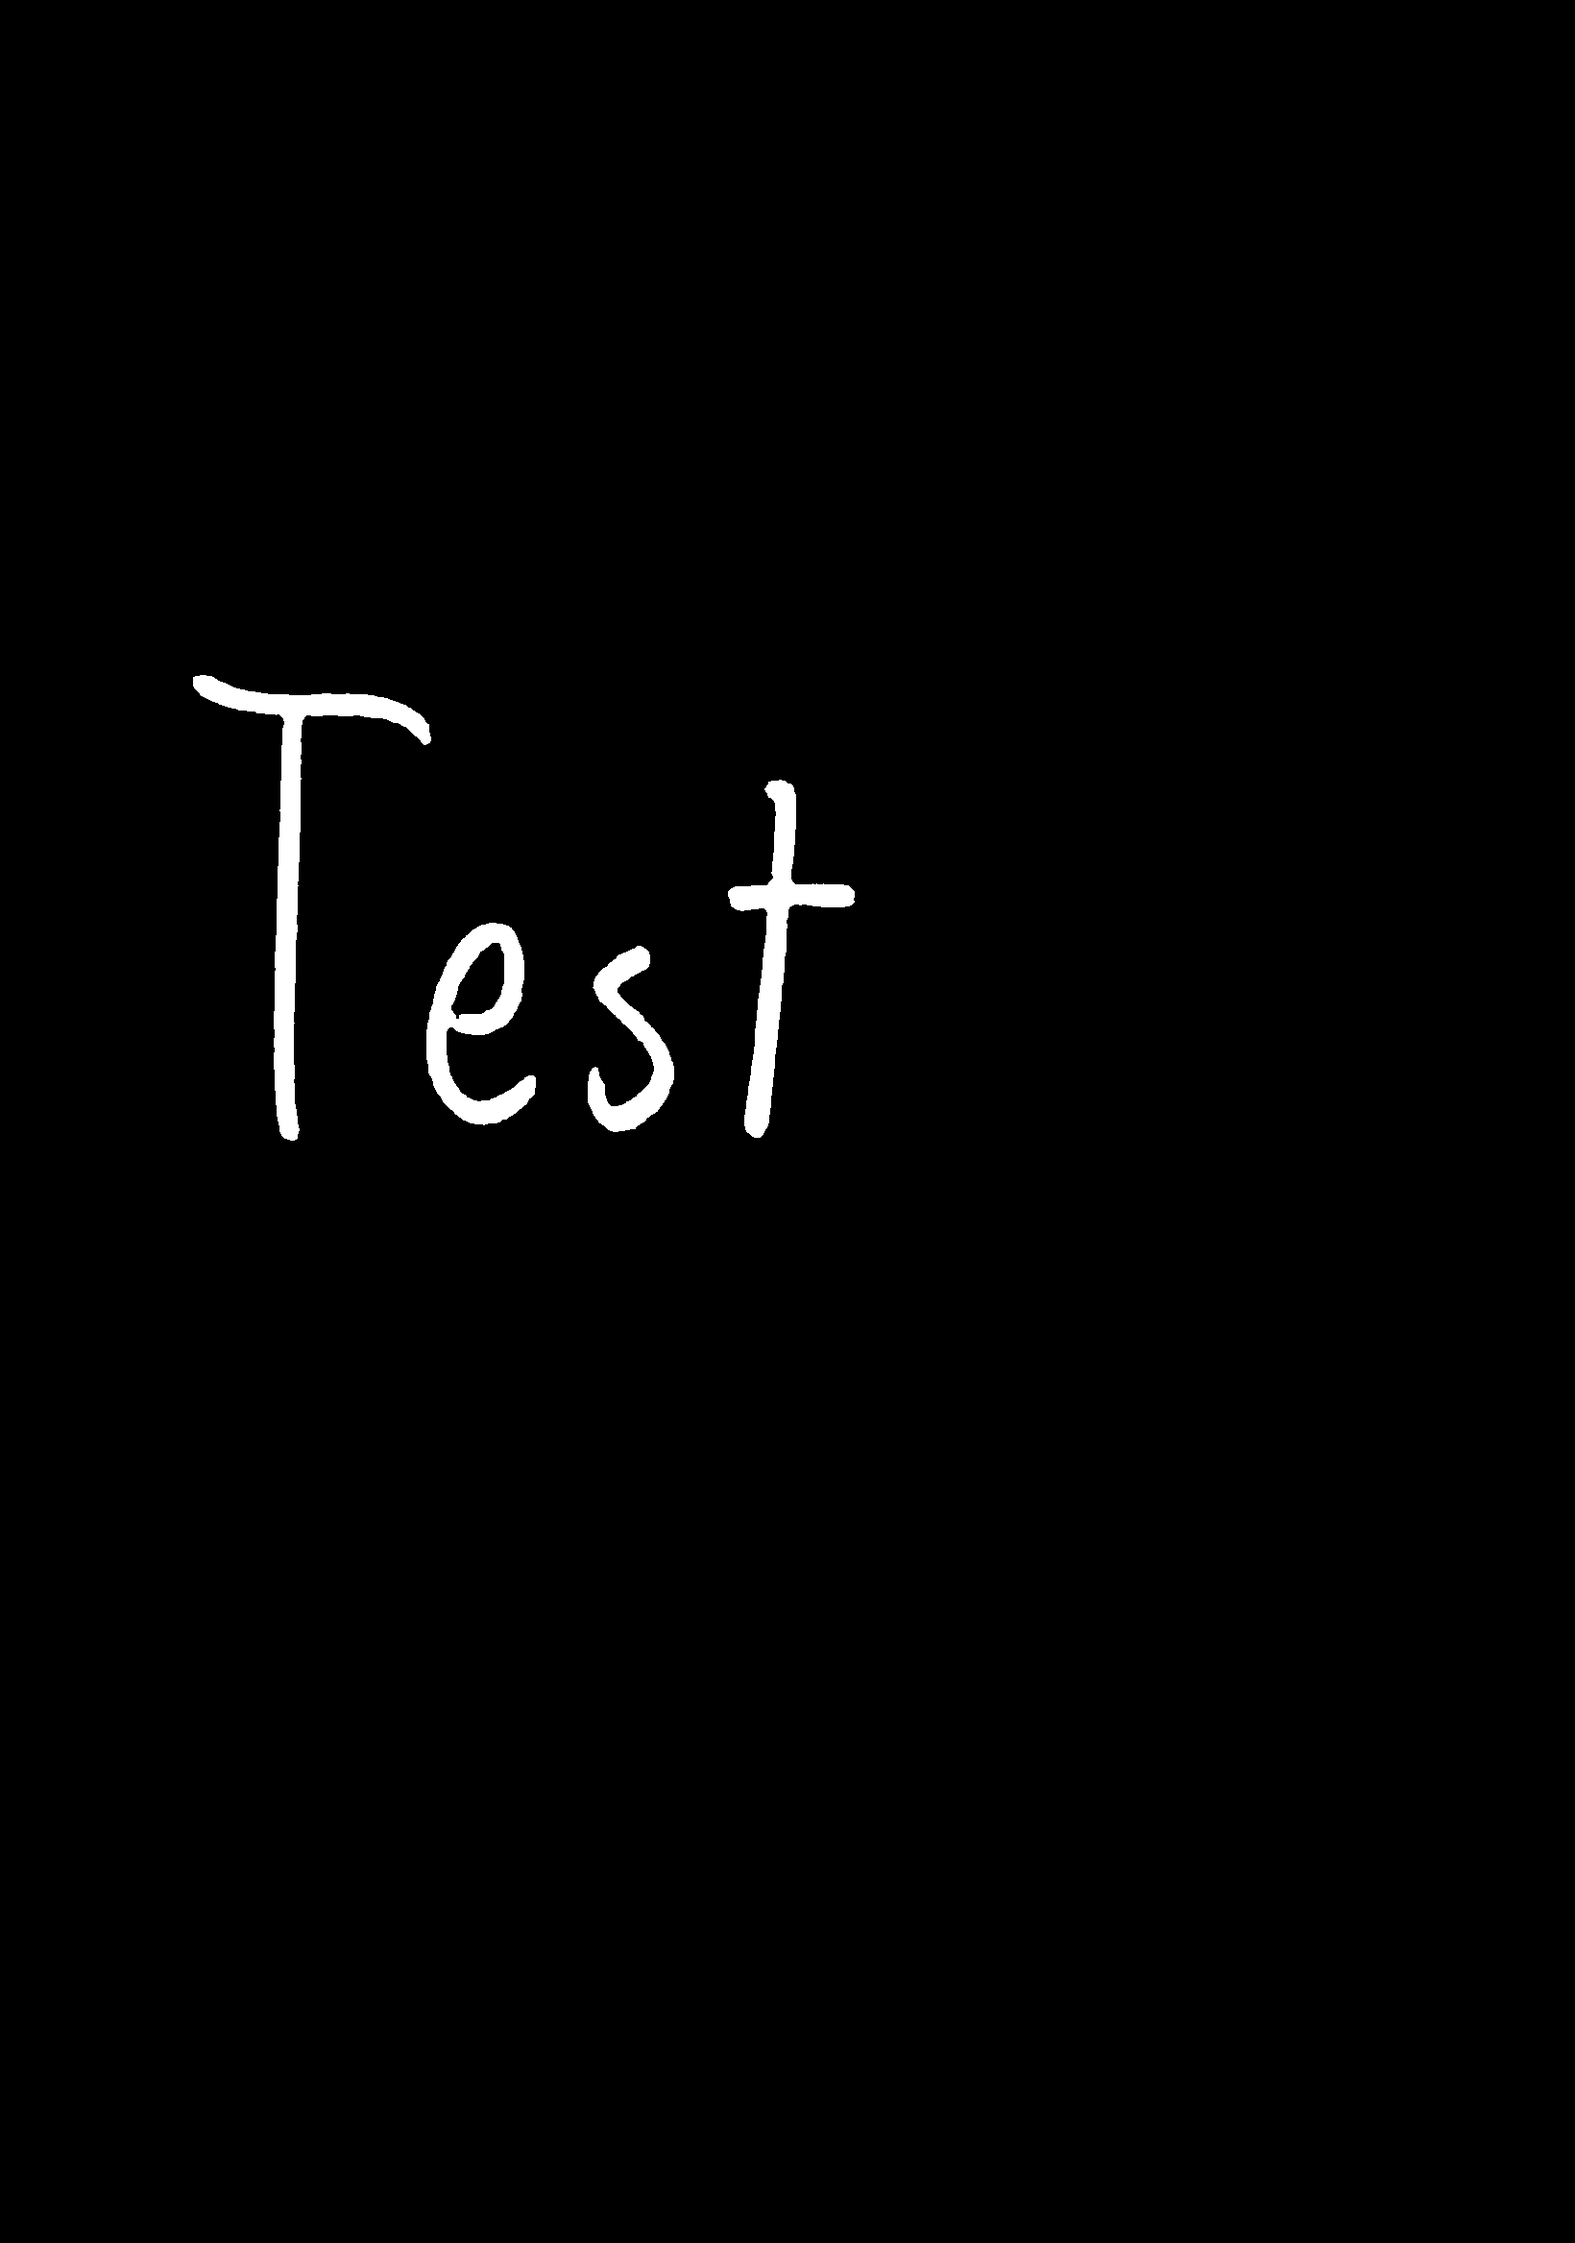
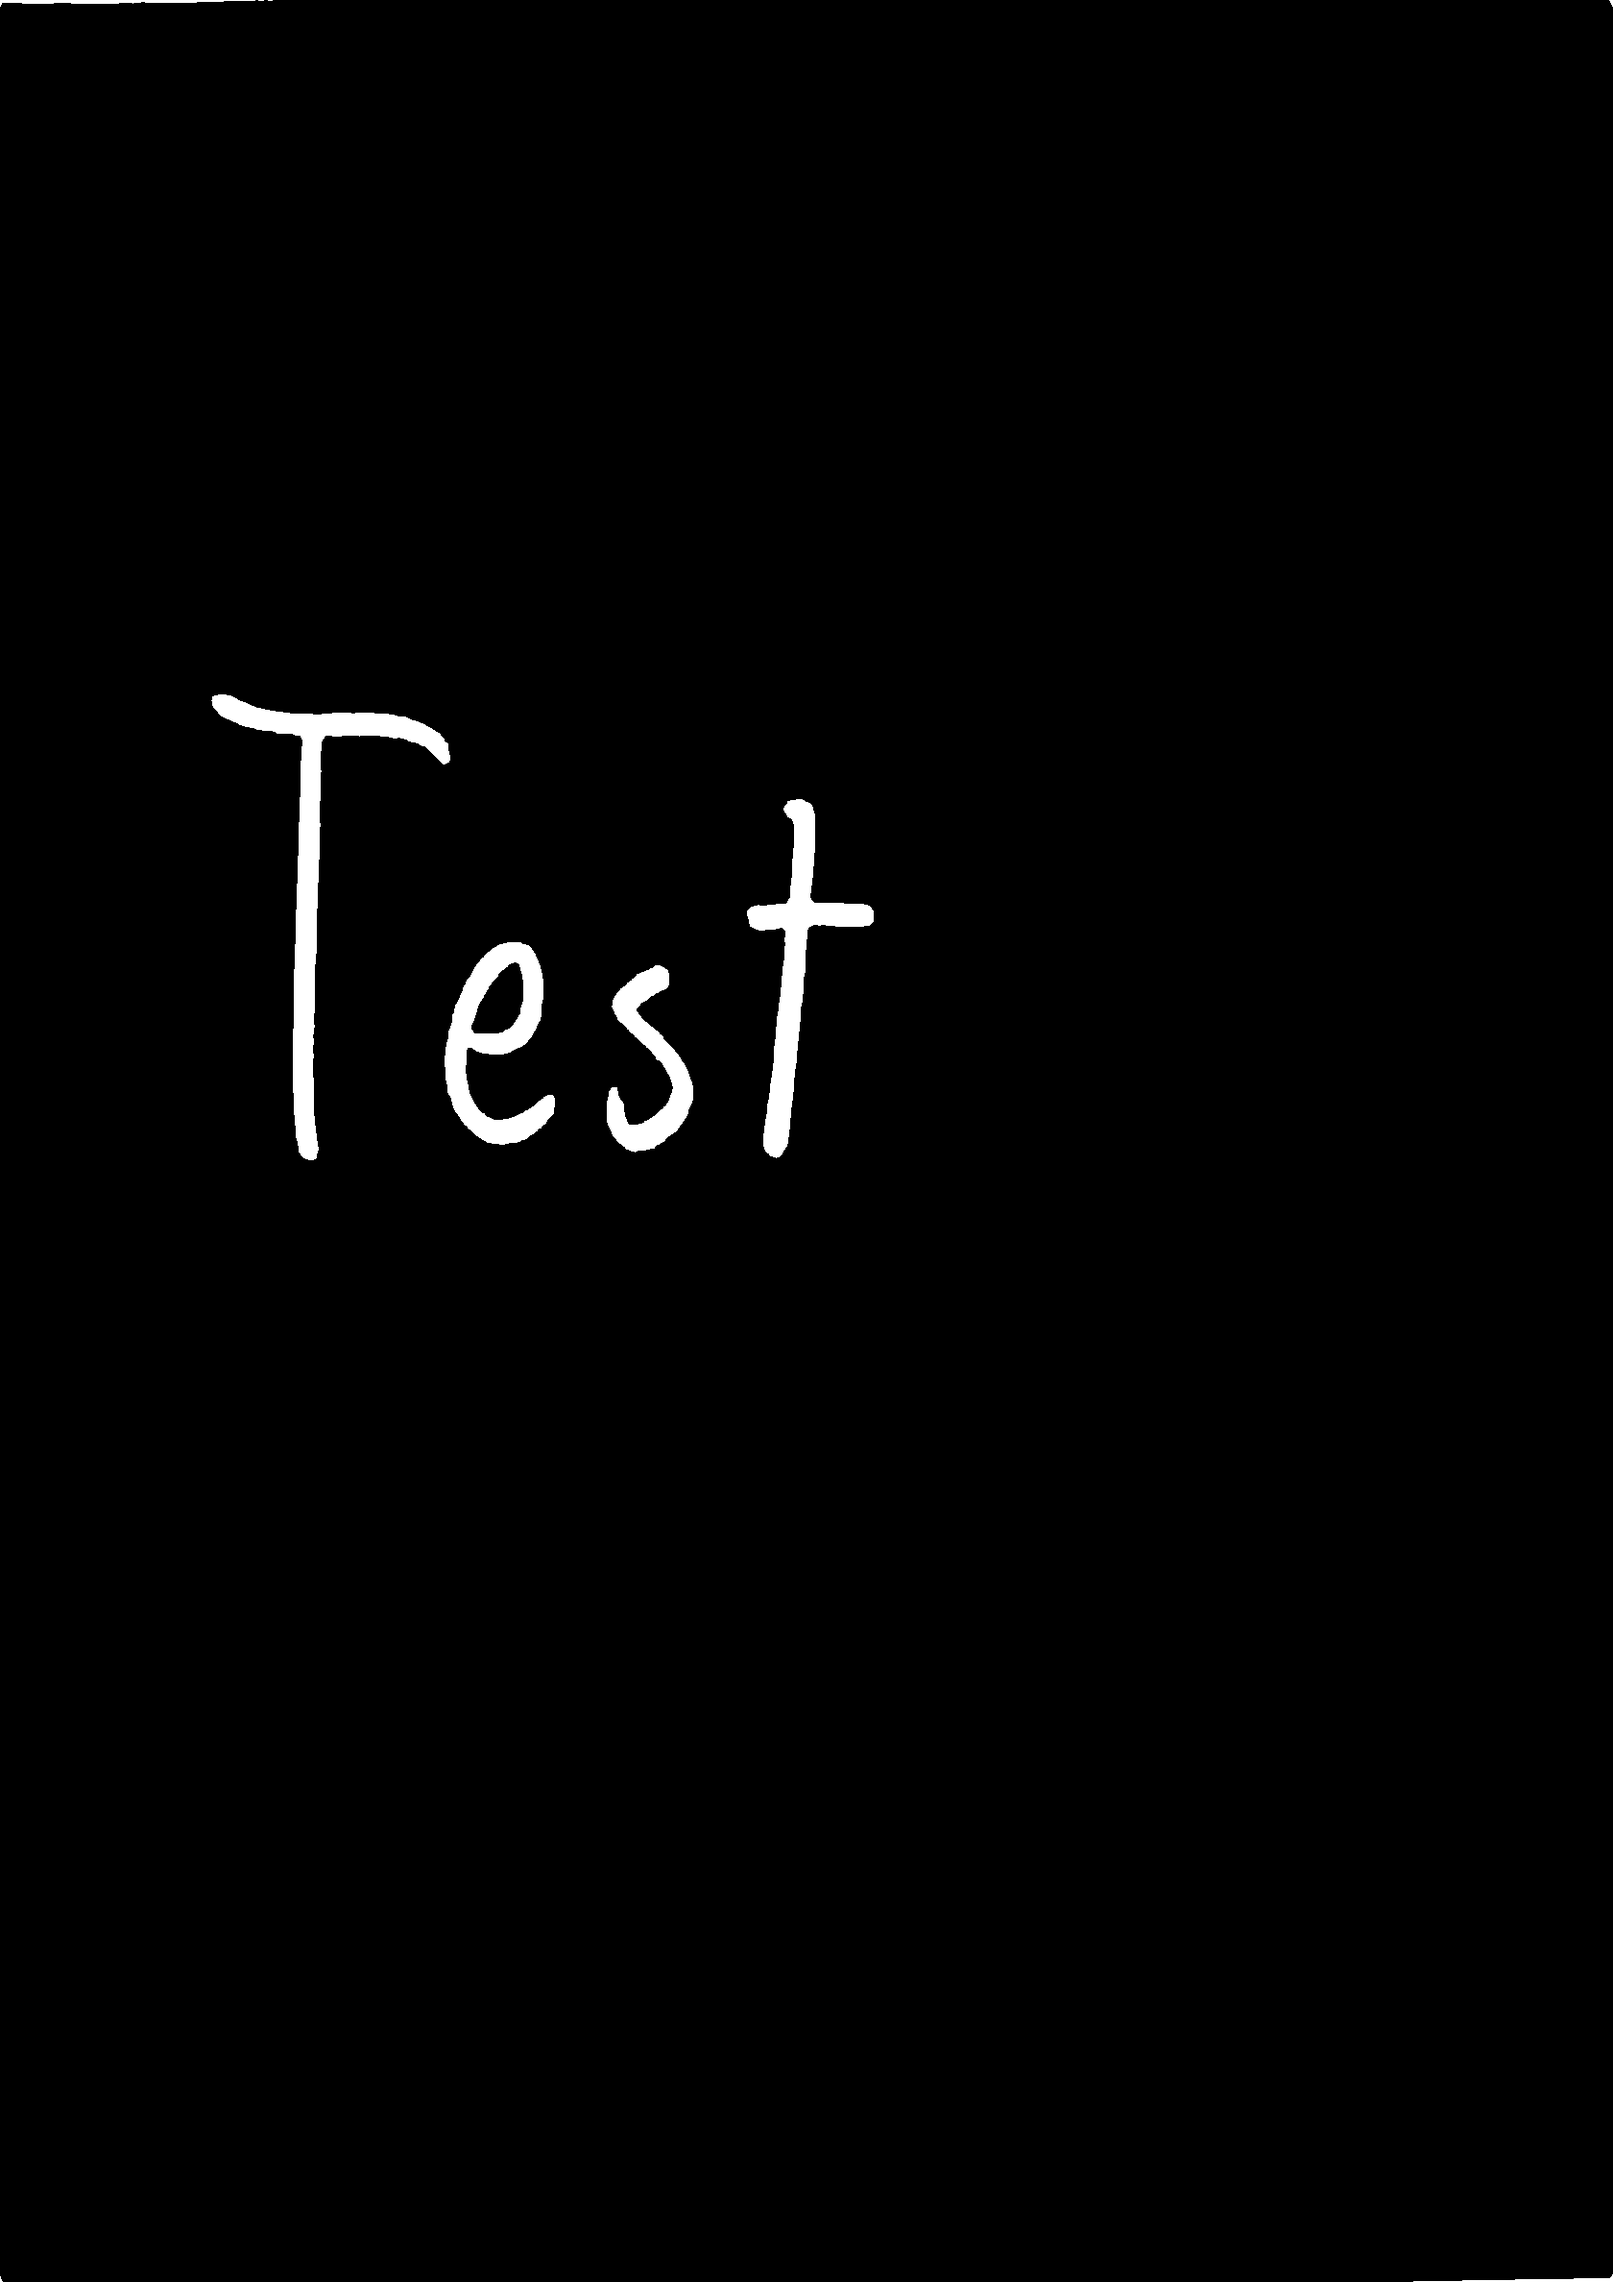
started on template recognition

diff --git a/make_template.py b/make_template.py
@@ -3,36 +3,30 @@ matplotlib.use("Agg")
 import matplotlib.pyplot as plt
 from matplotlib.patches import Rectangle
 
-PAGE_W, PAGE_H = 210, 297
-MARGIN = 15
-LABEL_W = 15
-COLS = 2
-LETTERS = "abcdefghijklm"
-ROWS = len(LETTERS)
+from layout import (PAGE_W, PAGE_H, MARGIN, LABEL_W, COLS,
+    BASELINE_FRAC, PAGES, cell_box)
 
-cell_w = (PAGE_W -2 * MARGIN - LABEL_W) / COLS
-cell_h = (PAGE_H -2 * MARGIN) / ROWS
+GUIDE = "0.93"
 
-fig = plt.figure(figsize=(PAGE_W / 25.4, PAGE_H / 25.4))
-ax = fig.add_axes((0, 0, 1, 1))
-ax.set_xlim(0, PAGE_W)
-ax.set_ylim(PAGE_H, 0)
-ax.axis("off")
+for page_no, letters in enumerate(PAGES, start=1):
 
+    fig = plt.figure(fiure=(PAGE_W / 25.4, PAGE_H / 25.4))
+    ax = fig.add_axes((0, 0, 1, 1))
+    ax.set_xlim(0, PAGE_W)
+    ax.set_ylim(PAGE_H, 0)
+    ax.axis("off")
 
-for row, ch in enumerate(LETTERS):
-    y = MARGIN + row * cell_h
+    for row, ch in enumerate(letters):
+        _, y0, _, y1 = cell_box(row, 0, len(letters))
+        ax.text(MARGIN + LABEL_W / 2, (y0 + y1) / 2, ch,
+            ha="center", va="center", fontsize=24)
 
-    ax.text(MARGIN + LABEL_W / 2, y + cell_h / 2, ch,
-        ha="center", va="center", fontsize=24)
+        for col in range(COLS):
+            x0, y0, x1, y1 = cell_box(row, col, len(letters))
+            ax.add_patch(Rectangle((x0, y0), x1 - x0, y1 - y0,
+                fill=False, edgecolor=GUIDE, linewidth=0.8))
+            base_y = y0 + (y1 - y0) * BASELINE_FRAC
+            ax.plot([x0, x1], [base_y, base_y], color=GUIDE, linewidth=0.8)
 
-    for col in range(COLS):
-        x = MARGIN + LABEL_W + col * cell_w
-
-        ax.add_patch(Rectangle((x, y), cell_w, cell_h,
-            fill=False, edgecolor="0.85", linewidth=0.8))
-
-        base_y = y + cell_h*0.7
-        ax.plot([x, x + cell_w], [base_y, base_y], color="0.85", linewidth=0.8)
-
-fig.savefig("template_page1.pdf")   # change to _page2 when LETTERS = "nopqrstuvwxyz"
+    fig.savefig(f"template_page{page_no}.pdf")
+    plt.close(fig)

diff --git a/strokes.py b/strokes.py
@@ -44,7 +44,7 @@ def smooth_resample(stroke, spacing=3.0, smoothing=1.0):
     tck, _ = splprep([pts[:, 0], pts[:, 1]], s=smoothing * len(pts), k=3)
     length = np.sum(np.hypot(*np.diff(pts, axis=0).T))
     n = max(int(length / spacing), 2)
-    x, y = splev(np.linespace(0, 1, n), tck)
+    x, y = splev(np.linspace(0, 1, n), tck)
     return np.column_stack([x, y])
 
 def extract_strokes(ink, spacing=3.0, smoothing=1.0, min_len=4):
@@ -52,7 +52,7 @@ def extract_strokes(ink, spacing=3.0, smoothing=1.0, min_len=4):
 
     kernel = np.ones((3, 3), dtype=np.uint8)
     kernel[1, 1] = 0
-    neighbors = convole(sk, kernel, mode="constant") * sk
+    neighbors = convolve(sk, kernel, mode="constant") * sk
     endpoints = np.argwhere(neighbors == 1)
 
     raw = trace(sk, endpoints)

diff --git a/page.py b/page.py
@@ -29,7 +29,12 @@ def find_page(gray):
 def flatten_page(img, corners, size_mm=(210, 297), px_per_mm=8):
     w = int(size_mm[0] * px_per_mm)
     h = int(size_mm[1] * px_per_mm)
-    dst = np.array([[0, 0], [w - 1, 0], [w - 1, 0], [w - 1, h - 1], [0, h - 1]],
+    dst = np.array([
+        [0,     0],
+        [w - 1, 0],
+        [w - 1, h - 1],
+        [0, h - 1]
+    ],
         dtype="float32")
     M = cv2.getPerspectiveTransform(corners, dst)
     return cv2.warpPerspective(img, M, (w, h))

diff --git a/layout.py b/layout.py
@@ -1,0 +1,13 @@
+PAGE_W, PAGE_H = 210, 297
+MARGIN = 15
+LABEL_W = 15
+COLS = 3
+BASELINE_FRAC = 0.7
+PAGES = ["abcdefghijklm", "nopqrstuvwxyz"]
+
+def cell_box(row, col, n_rows):
+    cell_w = (PAGE_W - 2 * MARGIN - LABEL_W) / COLS
+    cell_h = (PAGE_H - 2 * MARGIN) / n_rows
+    x0 = MARGIN + LABEL_W + col + cell_w
+    y0 = MARGIN + row * cell_h
+    return x0, y0, x0 + cell_w, y0 + cell_h
